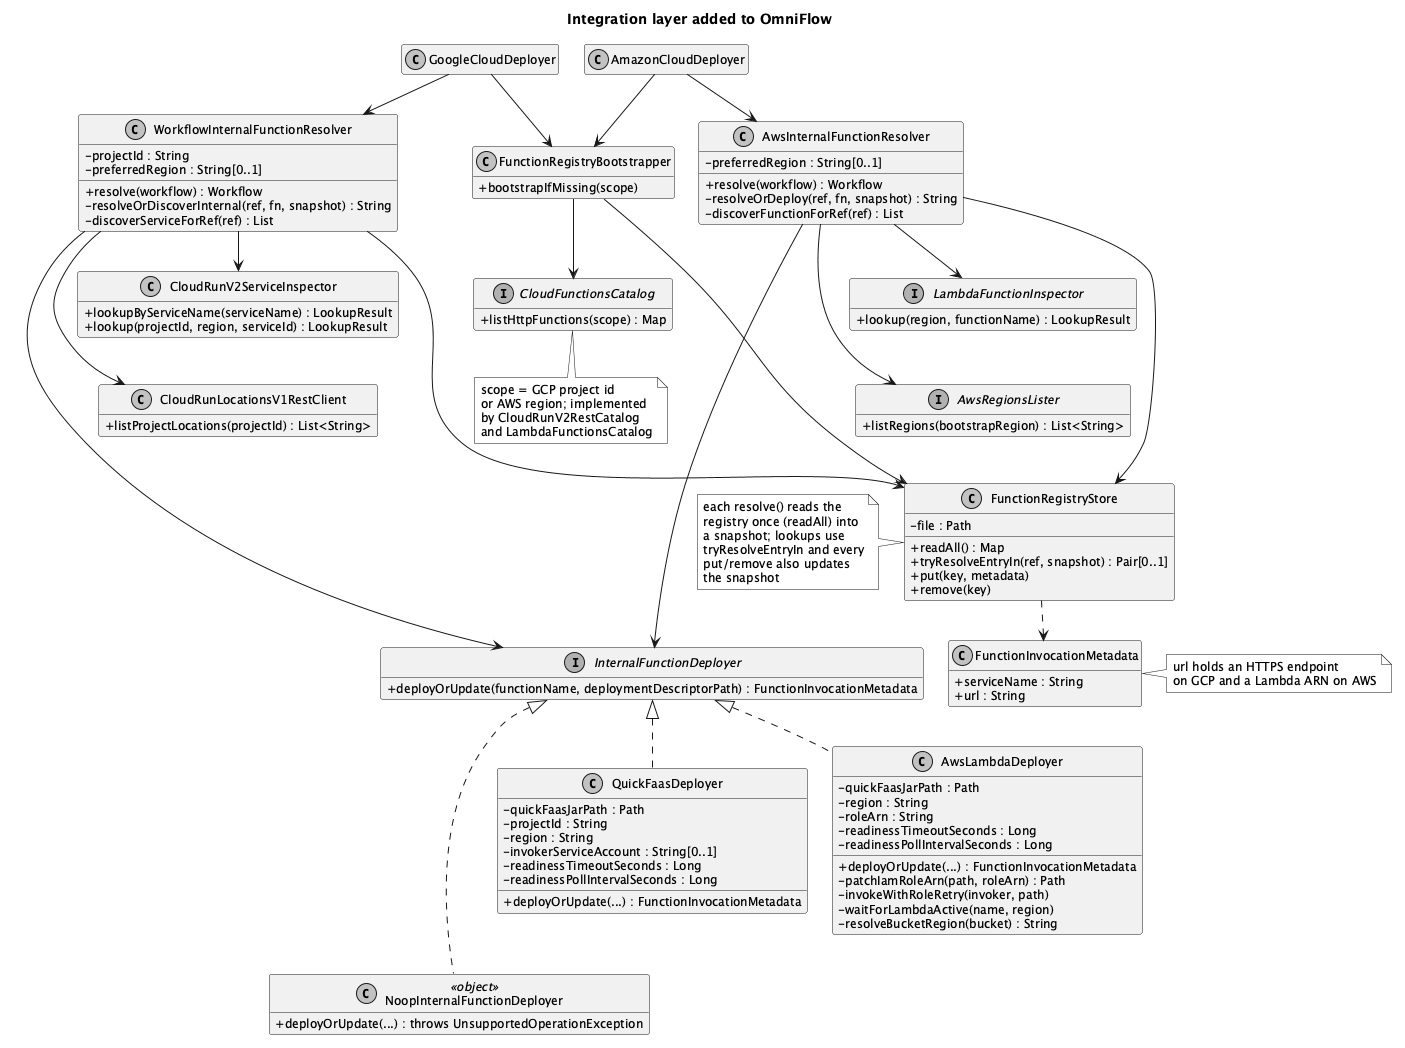
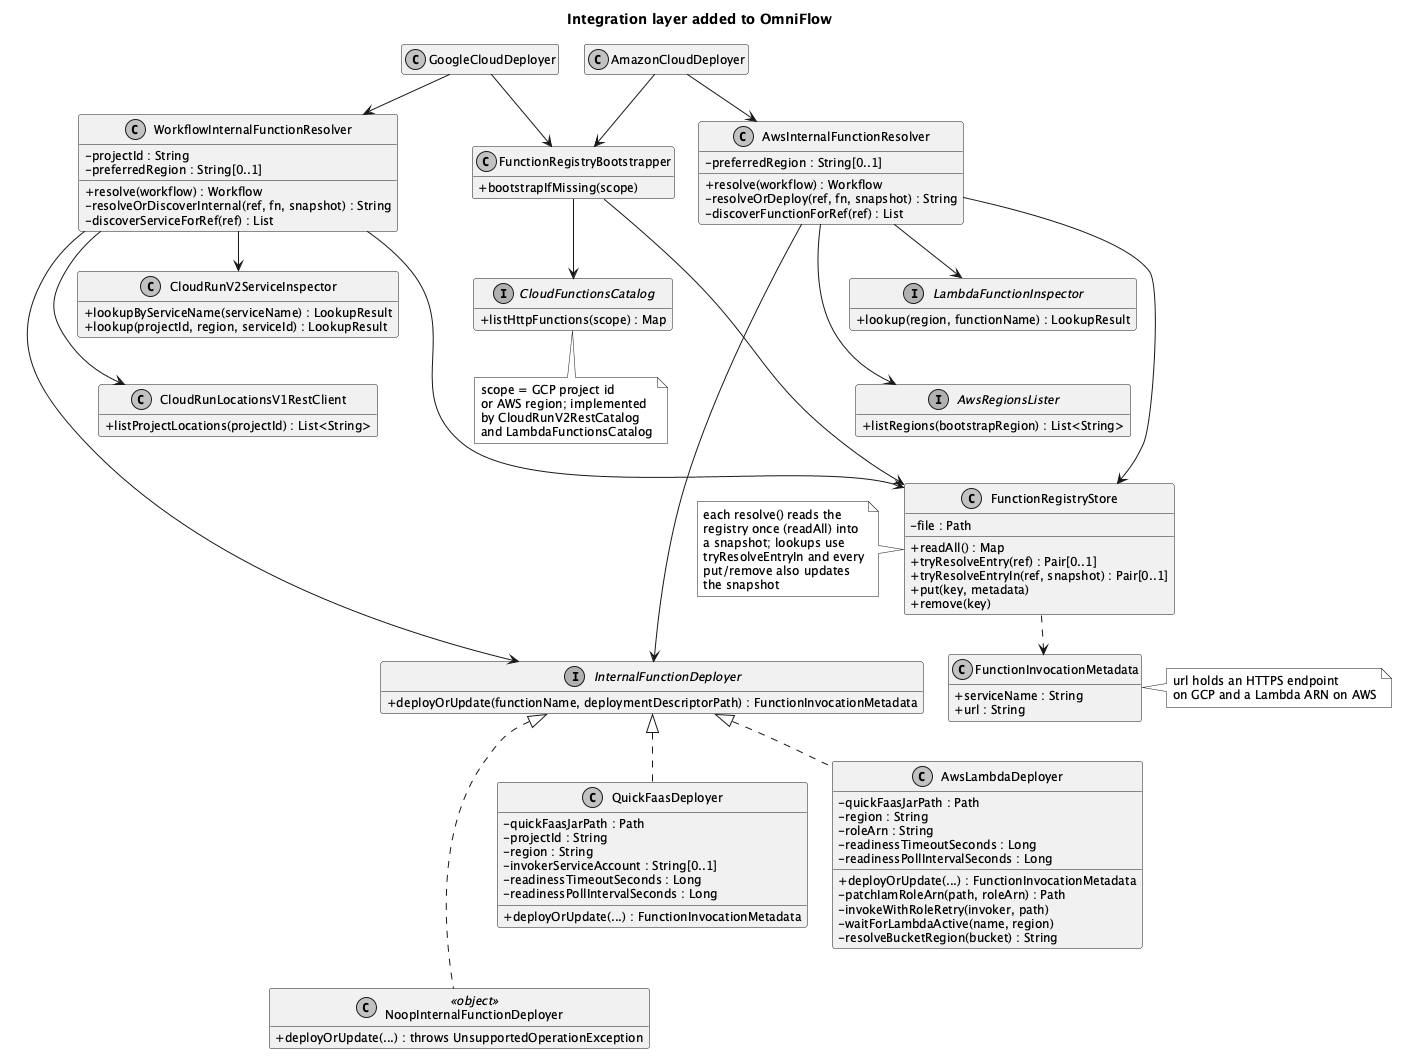
Show tryResolveEntry in the registry class diagrams
Section 4.1.3 describes tryResolveEntry() alongside tryResolveEntryIn(),
but Figure 4.2 and the full class model in Appendix A showed only the
latter. Also reword "re-parses the file" in the same section.

diff --git a/dissertation/Chapters/chapter5.tex b/dissertation/Chapters/chapter5.tex
@@ -94,9 +94,10 @@ renderer recognises.
   (\texttt{resolveUrl()} and \texttt{resolveUrlIn()} are split the same way);
   \item \texttt{put()} inserts or refreshes an entry, and \texttt{remove()} deletes one.
 \end{itemize}
-The store keeps no state between calls, so each read re-parses the file. The resolvers avoid this:
-each reads the registry once, at the start of \texttt{resolve()}, into a snapshot, resolves every
-call against it, and keeps it in sync with each \texttt{put()} and \texttt{remove()}.
+The store keeps no state between calls, so each read reads the whole file and rebuilds
+the map. The resolvers avoid this: each reads the registry once, at the start of
+\texttt{resolve()}, into a snapshot, resolves every call against it, and keeps it in sync with
+each \texttt{put()} and \texttt{remove()}.
 Chapter~\ref{cha:evaluation} measures both paths.
 
 Figure~\ref{fig:omniflow-classes-resolvers} shows the two resolvers. Each reads and writes the

diff --git a/dissertation/CHANGELOG.md b/dissertation/CHANGELOG.md
@@ -1,7 +1,18 @@
 # Alterações aos capítulos da dissertação
 
-Só alterações ainda não enviadas (push). Base: `3b2a245` (último commit em
+Só alterações ainda não enviadas (push). Base: `1b2fcf5` (último commit em
 `origin/claude/progress-report-compliance-e4damf`). Depois de um push, o registo recomeça vazio.
 
 (`changelog.txt`, nesta pasta, é o histórico do template `iselthesis` e não tem nada a ver com
 este ficheiro.)
+
+## 2026-10-12
+
+### Capítulo 4 (Implementation) e Apêndice A — diagrama de classes do registry
+
+- Figura 4.2 (`images/implementation/omniflow-classes-registry.png`) e diagrama completo do
+  Apêndice A (`omniflow-integration-classes.png`): acrescentado `tryResolveEntry(ref)` à classe
+  `FunctionRegistryStore`, que a Secção 4.1.3 descreve a par de `tryResolveEntryIn()` mas que
+  faltava nas figuras. Fontes PlantUML em `../diagrams/`.
+- Secção 4.1.3 (`Chapters/chapter5.tex`): "each read re-parses the file" passou a "each read reads
+  the whole file and rebuilds the map".
